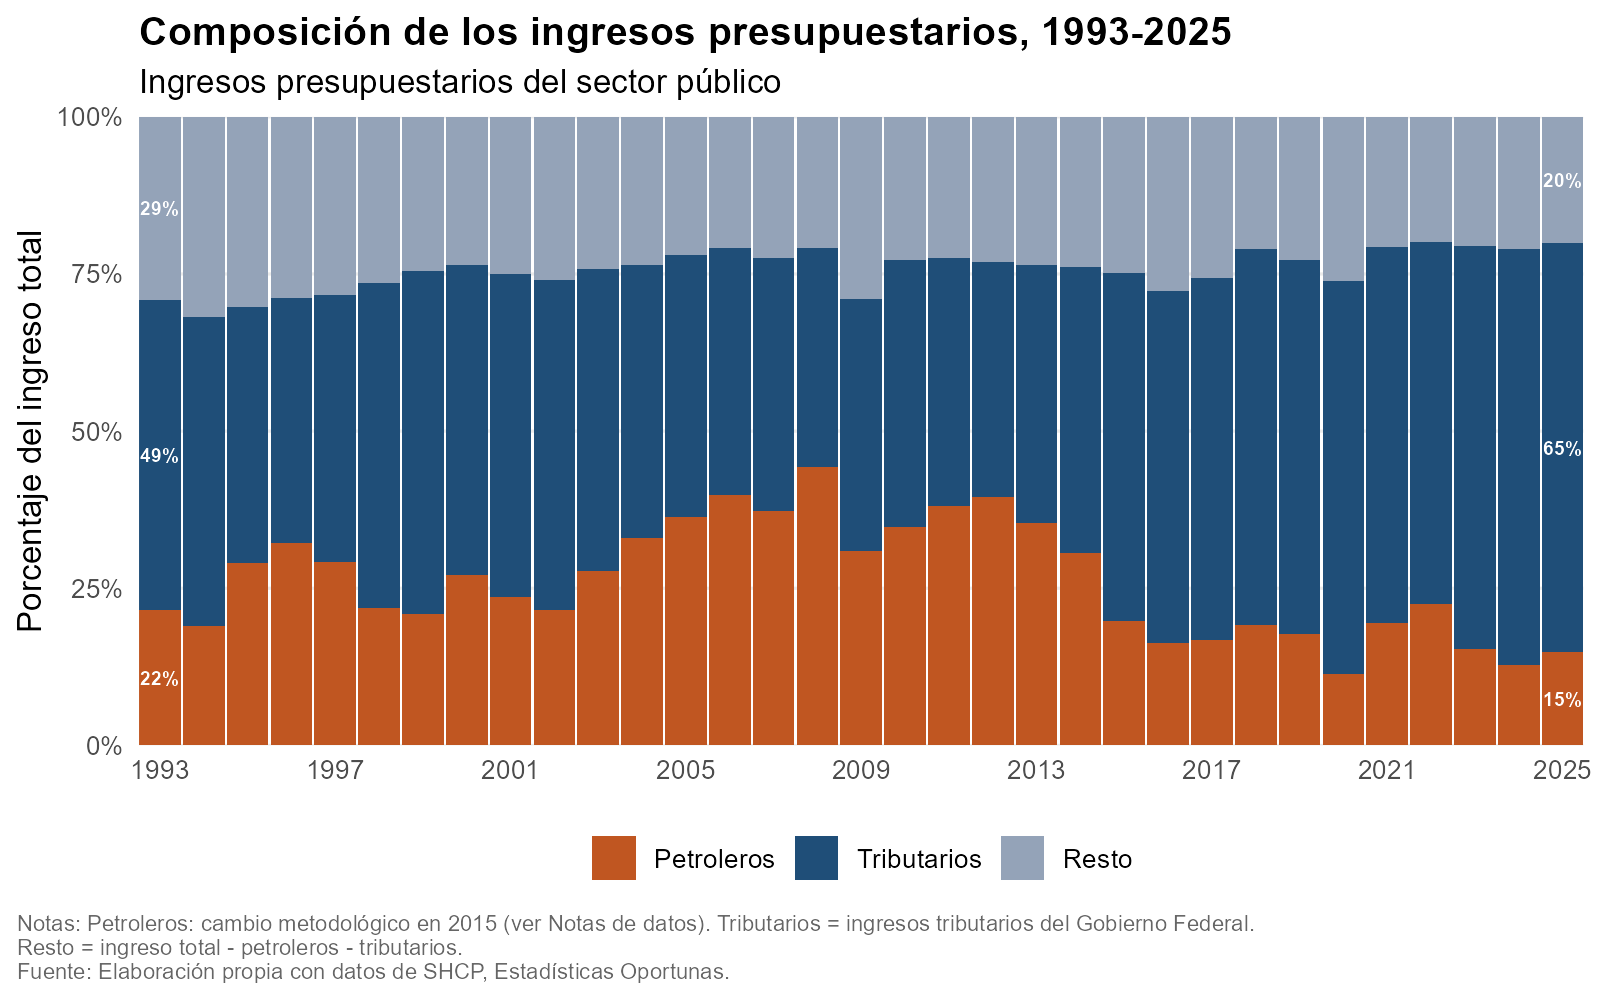
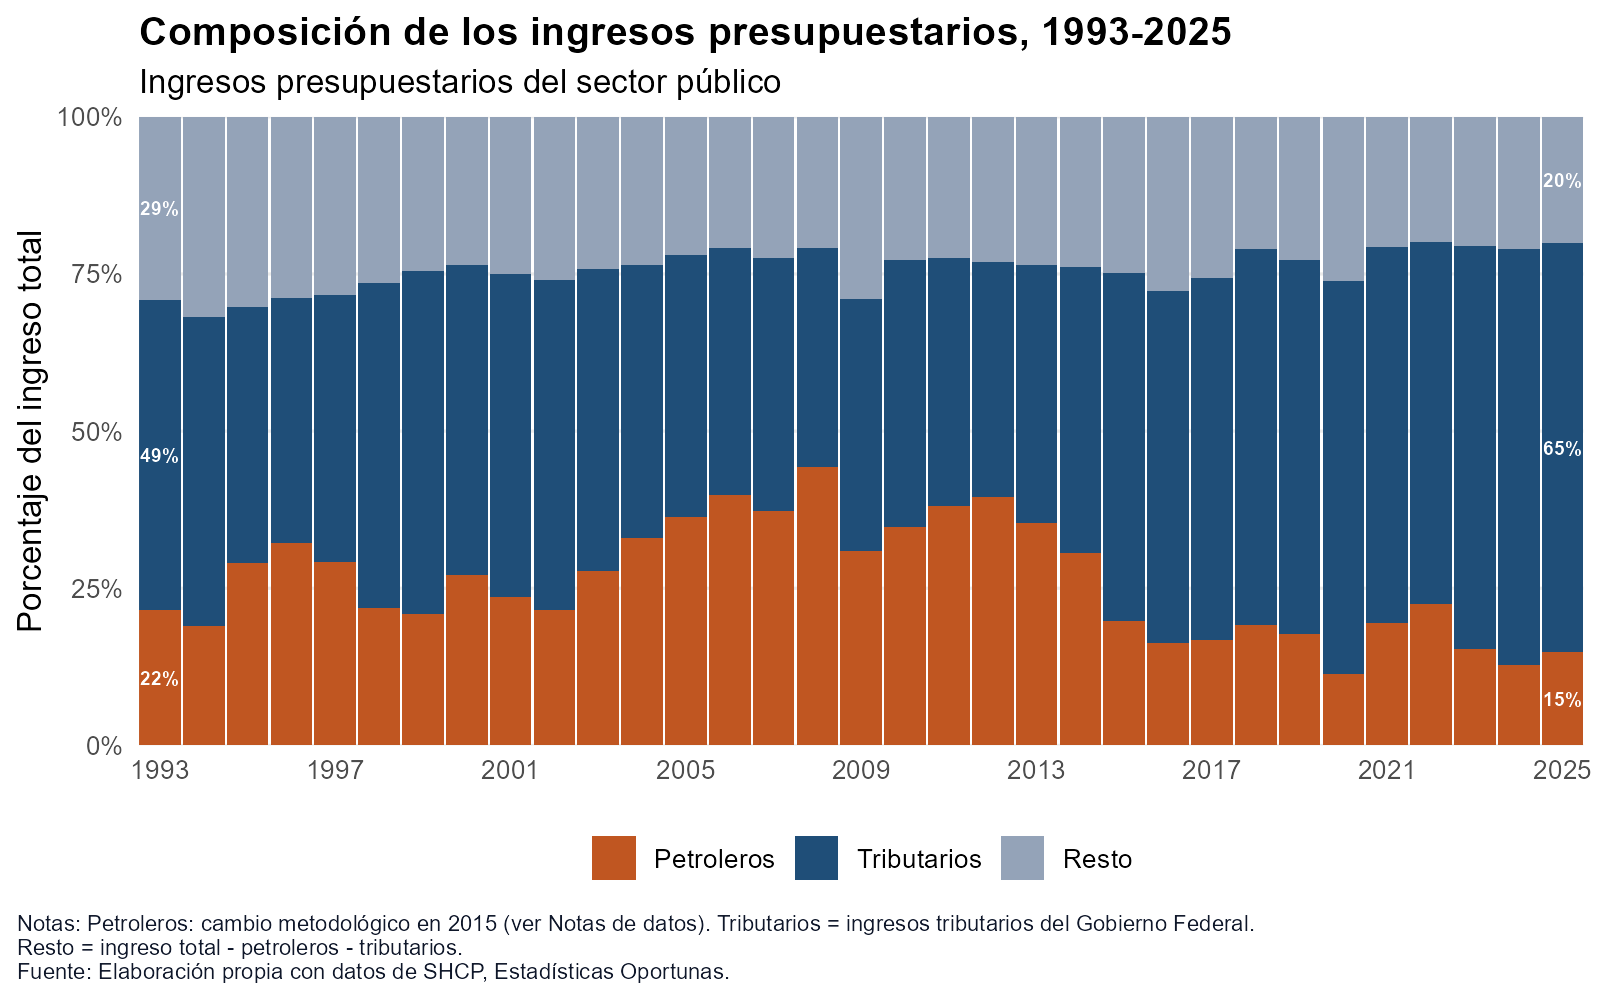
style: cambia colores de notas, fuente y etiquetas de la gráfica 1

Changed region(s): [[0.0, 0.899, 0.7812, 0.992]]

diff --git a/analysis/analisis_finanzas_publicas_mexico.md b/analysis/analisis_finanzas_publicas_mexico.md
@@ -340,7 +340,7 @@ ingresos_largo <- pct_ingresos %>%
 
 # 2.1. Definir paleta de colores
 
-colores <- c("Petroleros" = "#A1A1A1", "Tributarios" = "#1F4E79", "Resto" = "#7FB3D5")
+colores <- c("Petroleros" = "#C05621", "Tributarios" = "#1F4E78", "Resto" = "#94A3B8")
 
 # 2.2. Configurar diseño de gráfica
 
@@ -352,7 +352,7 @@ grafica_composicion <- ggplot(ingresos_largo, aes(x = anio, y = pct, fill = conc
     data = filter(ingresos_largo, anio %in% c(1993, 2025)),
     aes(label = paste0(round(pct), "%")),
     position = position_stack(vjust = 0.5, reverse = TRUE),
-    color = "black", size = 2.5, fontface = "bold"
+    color = "#FFFFFF", size = 2.5, fontface = "bold"
   ) +
   scale_fill_manual(values = colores) +
   scale_x_continuous(breaks = seq(1993, 2025, 4), expand = c(0, 0)) +
@@ -371,7 +371,7 @@ grafica_composicion <- ggplot(ingresos_largo, aes(x = anio, y = pct, fill = conc
     panel.grid.major.x = element_blank(),
     panel.grid.minor = element_blank(),
     plot.title = element_text(face = "bold"),
-    plot.caption = element_text(hjust = 0, size = 8, color = "gray40"),
+    plot.caption = element_text(hjust = 0, size = 8, color = "#0F172A"),
     plot.caption.position = "plot")
 
 # 3. Guardar gráfica en el directorio figures
